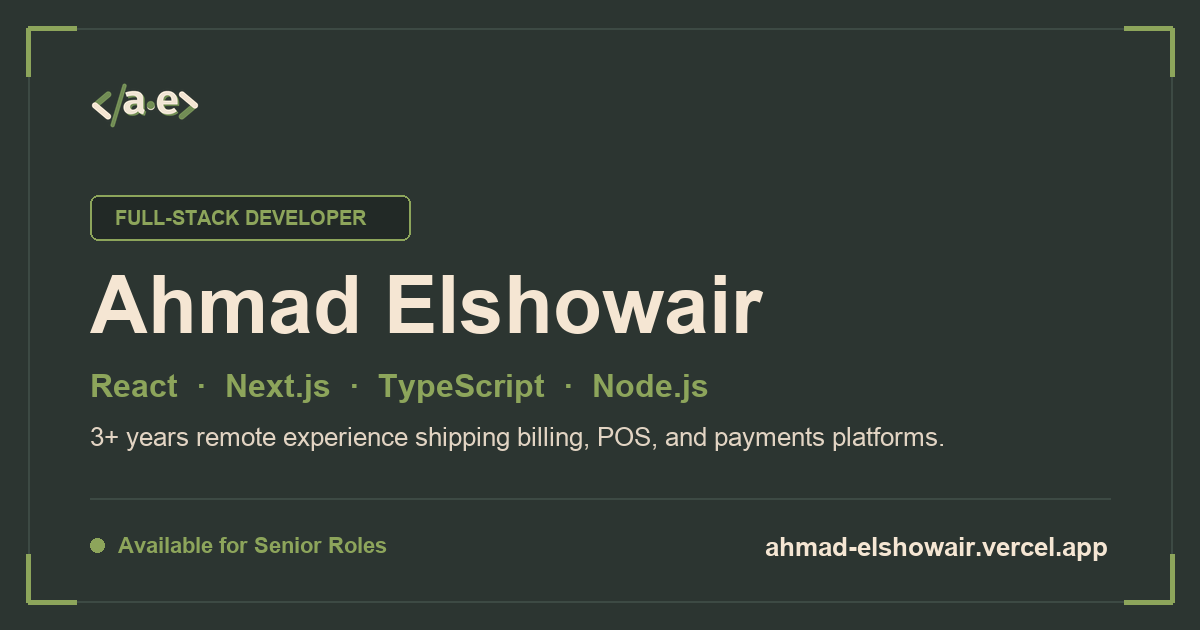
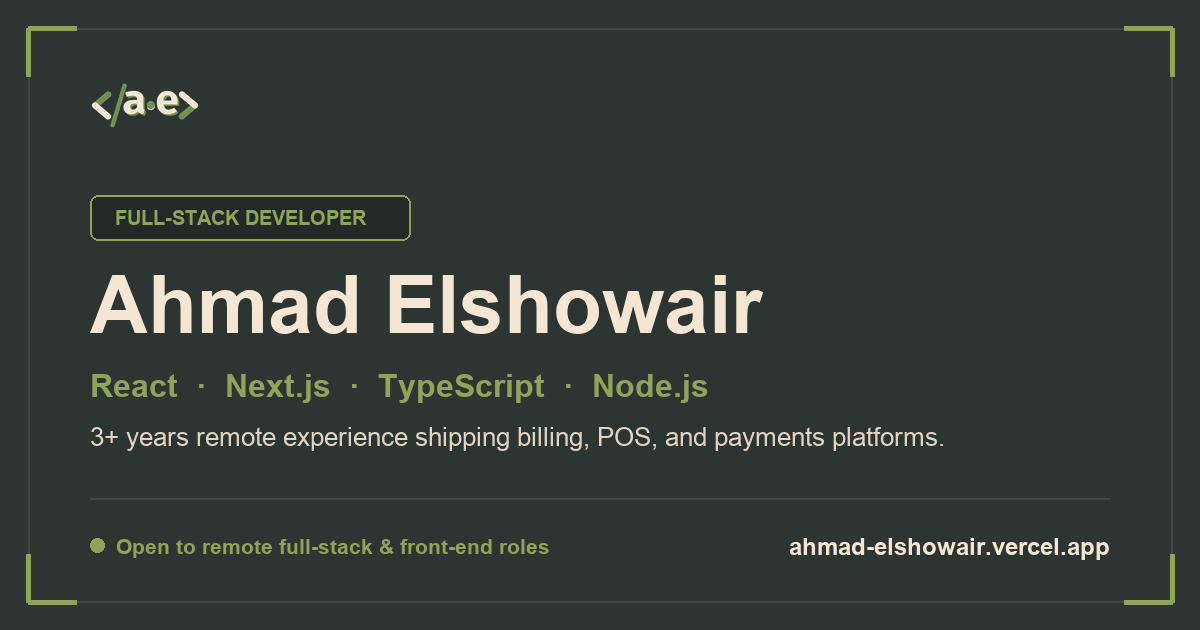
fix(seo): align og.png availability badge with contact section positioning
- Update og.png status indicator to "Open to remote full-stack & front-end roles"
- Right-align domain text cleanly across 1200x630 canvas
- Maintain verbatim alignment with Contact section availability claims

Changed region(s): [[0.6167, 0.8444, 0.925, 0.9048], [0.0925, 0.8444, 0.4625, 0.9048]]

diff --git a/src/components/Contact.tsx b/src/components/Contact.tsx
@@ -19,8 +19,7 @@ type CopyState = "idle" | "copied" | "failed";
  * Contact destination — direct conversion channels only (email, LinkedIn)
  * plus the resume asset; the strings below are contract-frozen and any change
  * must re-verify against the canonical resume. GitHub deliberately lives in
- * the Projects section and on project cards, not here (user decision
- * 2026-09-18).
+ * the Projects section and on project cards, not here.
  */
 const Contact = () => {
   const [copyState, setCopyState] = useState<CopyState>("idle");
